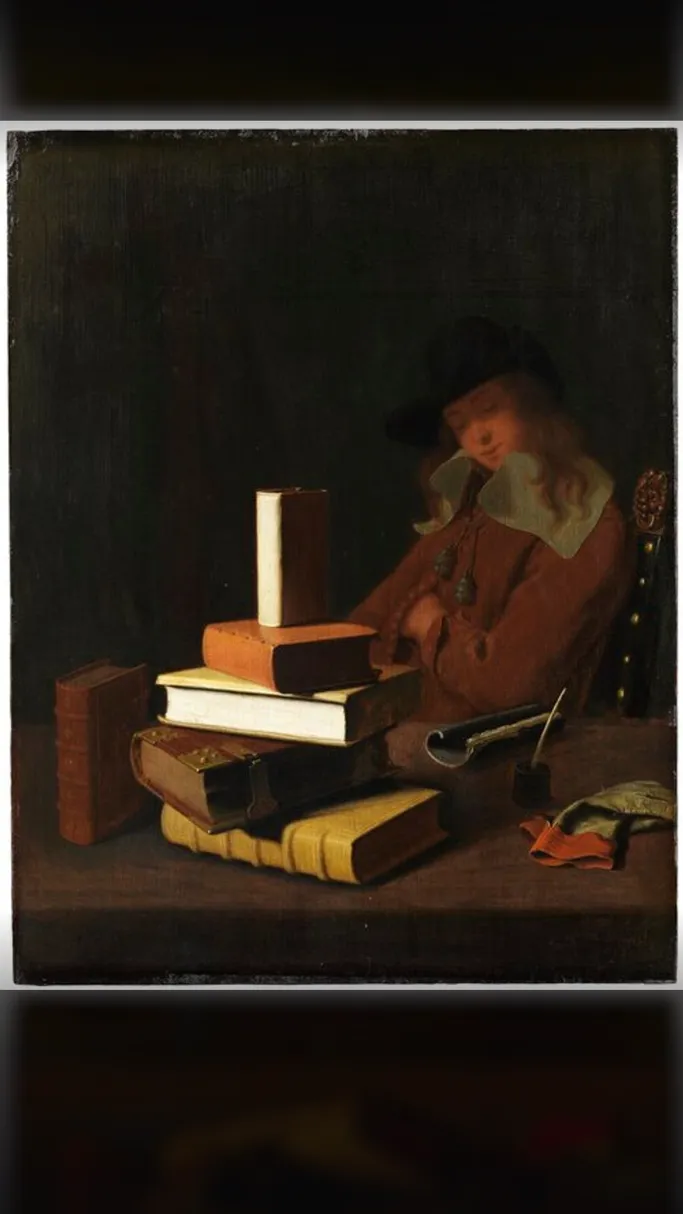
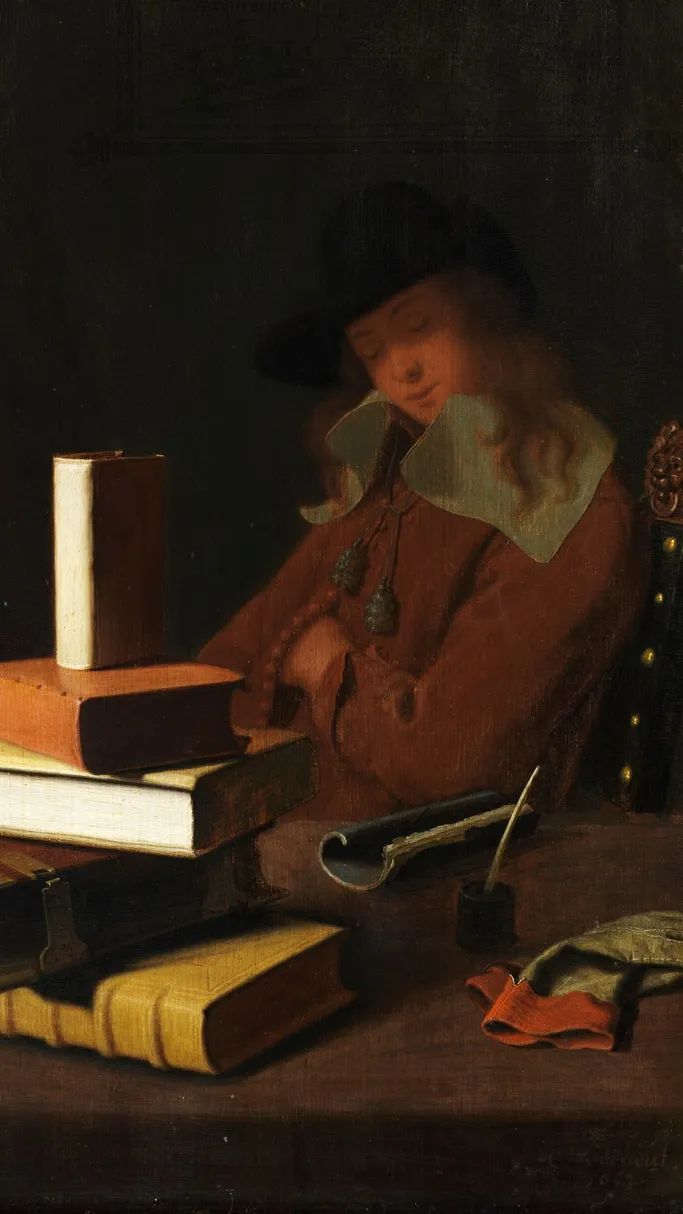
content: "How it works" pictures for sleep_memory and tupi_words; sleep_memory Discover fills the card
The Sleeping Student was shorter than 9:16 and showed its white border and
the blurred fill; it is re-cropped from the full-size Commons file around
the sleeping student. Both lessons' pictures checked in /_review.

diff --git a/docs/IMPLEMENTATION_STATUS.md b/docs/IMPLEMENTATION_STATUS.md
@@ -120,6 +120,6 @@ Pictures are checked for accuracy with "Images checked" on each lesson (D20, 202
 ### Deferred to later milestones
 
 - M3: trail batch 2 (D19, 31 lessons). Ready to start: the live site uses the `production` channel (D22) and `/_review` has "Images checked".
-- Batch 2 "How it works" drawings: all 31 lessons have their own SVG scene and a ChatGPT diagram picture in the new `diagram` slot, waiting for Images checked (D23). 20 of the 22 published lessons have theirs too (2026-11-11, checked); `sleep_memory` and `tupi_words` wait for the founder's check, which `/_review` lists under "Published, pictures to check".
+- Batch 2 "How it works" drawings: all 31 lessons have their own SVG scene and a ChatGPT diagram picture in the new `diagram` slot, waiting for Images checked (D23). All 22 published lessons have theirs too, checked (2026-11-11/12); a picture added later to a published lesson shows in `/_review` under "Published, pictures to check".
 - M4: prerendered lesson/topic/trail pages, OG images, sharing, legal pages, analytics.
 - M5: starter-pack offline caching, export/import (needed before any domain move, D13), axe checks, performance budgets. Basic deployment is already live (D13).

diff --git a/docs/content/HOW_IT_WORKS_PROMPTS.md b/docs/content/HOW_IT_WORKS_PROMPTS.md
@@ -5,7 +5,7 @@ ChatGPT prompts for the pictures in Go Deeper's **How it works** box. All 53 wer
 **Where the pictures are**
 
 - **Batch 2 (31 drafts):** on the site in the new `diagram` slot (D23), waiting for **Images checked** in `/_review`. A lesson with a diagram picture shows it in How it works; the others keep their SVG scene.
-- **Published lessons (22):** 20 added and checked on 2026-11-11. `sleep_memory` and `tupi_words` wait for the founder's check; added pictures show in `/_review` under "Published, pictures to check", and `content:validate` fails until each is checked, so none reaches the live site unchecked. The originals are in `~/Downloads/lumen-diagrams/final/`, named `<lesson>_diagram.png`.
+- **Published lessons (22):** all added and checked (20 on 2026-11-11, `sleep_memory` and `tupi_words` on 2026-11-12). A picture added later to a published lesson shows in `/_review` under "Published, pictures to check", and `content:validate` fails until it is checked, so none reaches the live site unchecked. The originals are in `~/Downloads/lumen-diagrams/final/`, named `<lesson>_diagram.png`.
 
 ## How to use
 
